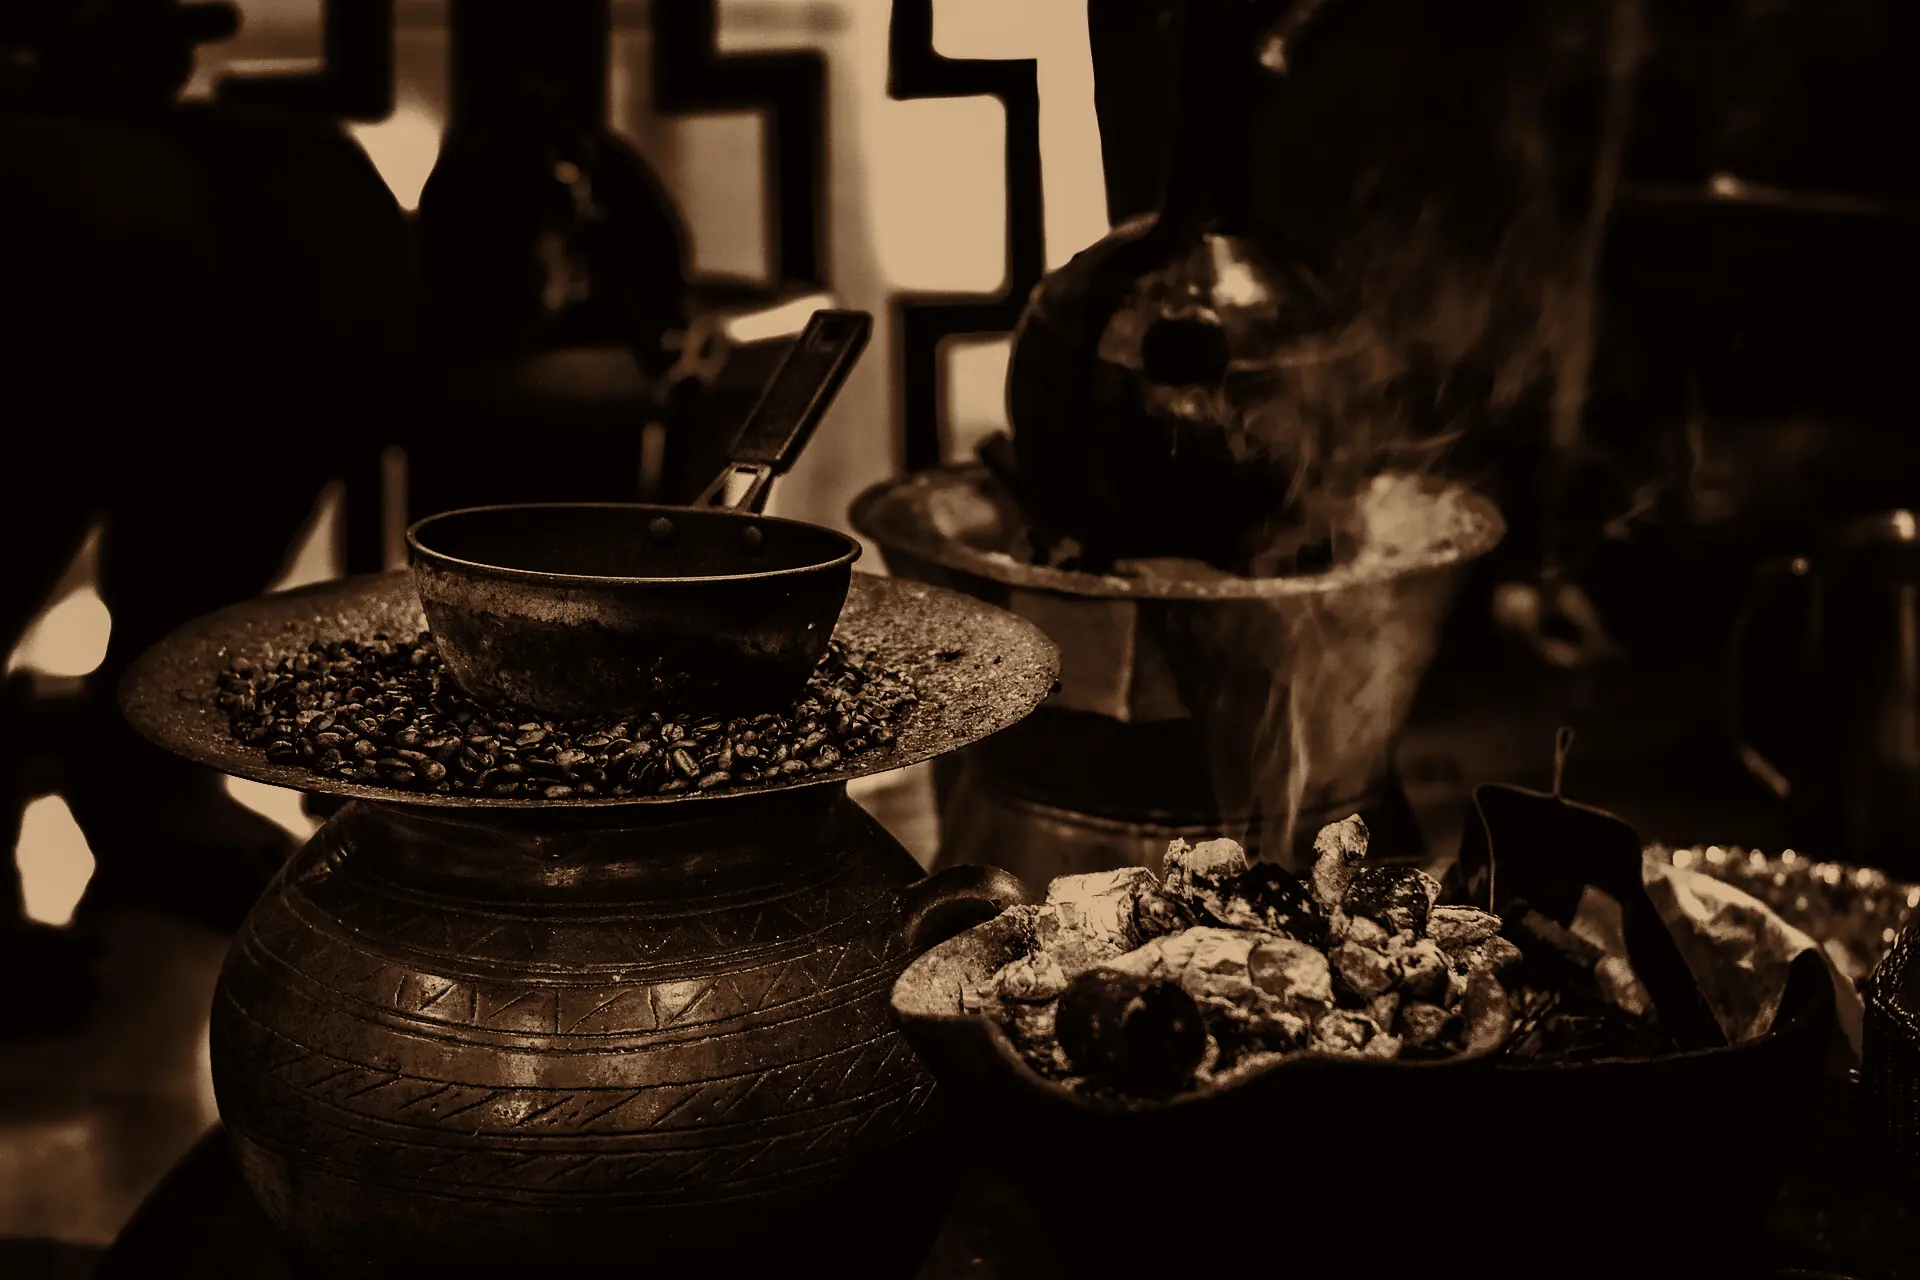
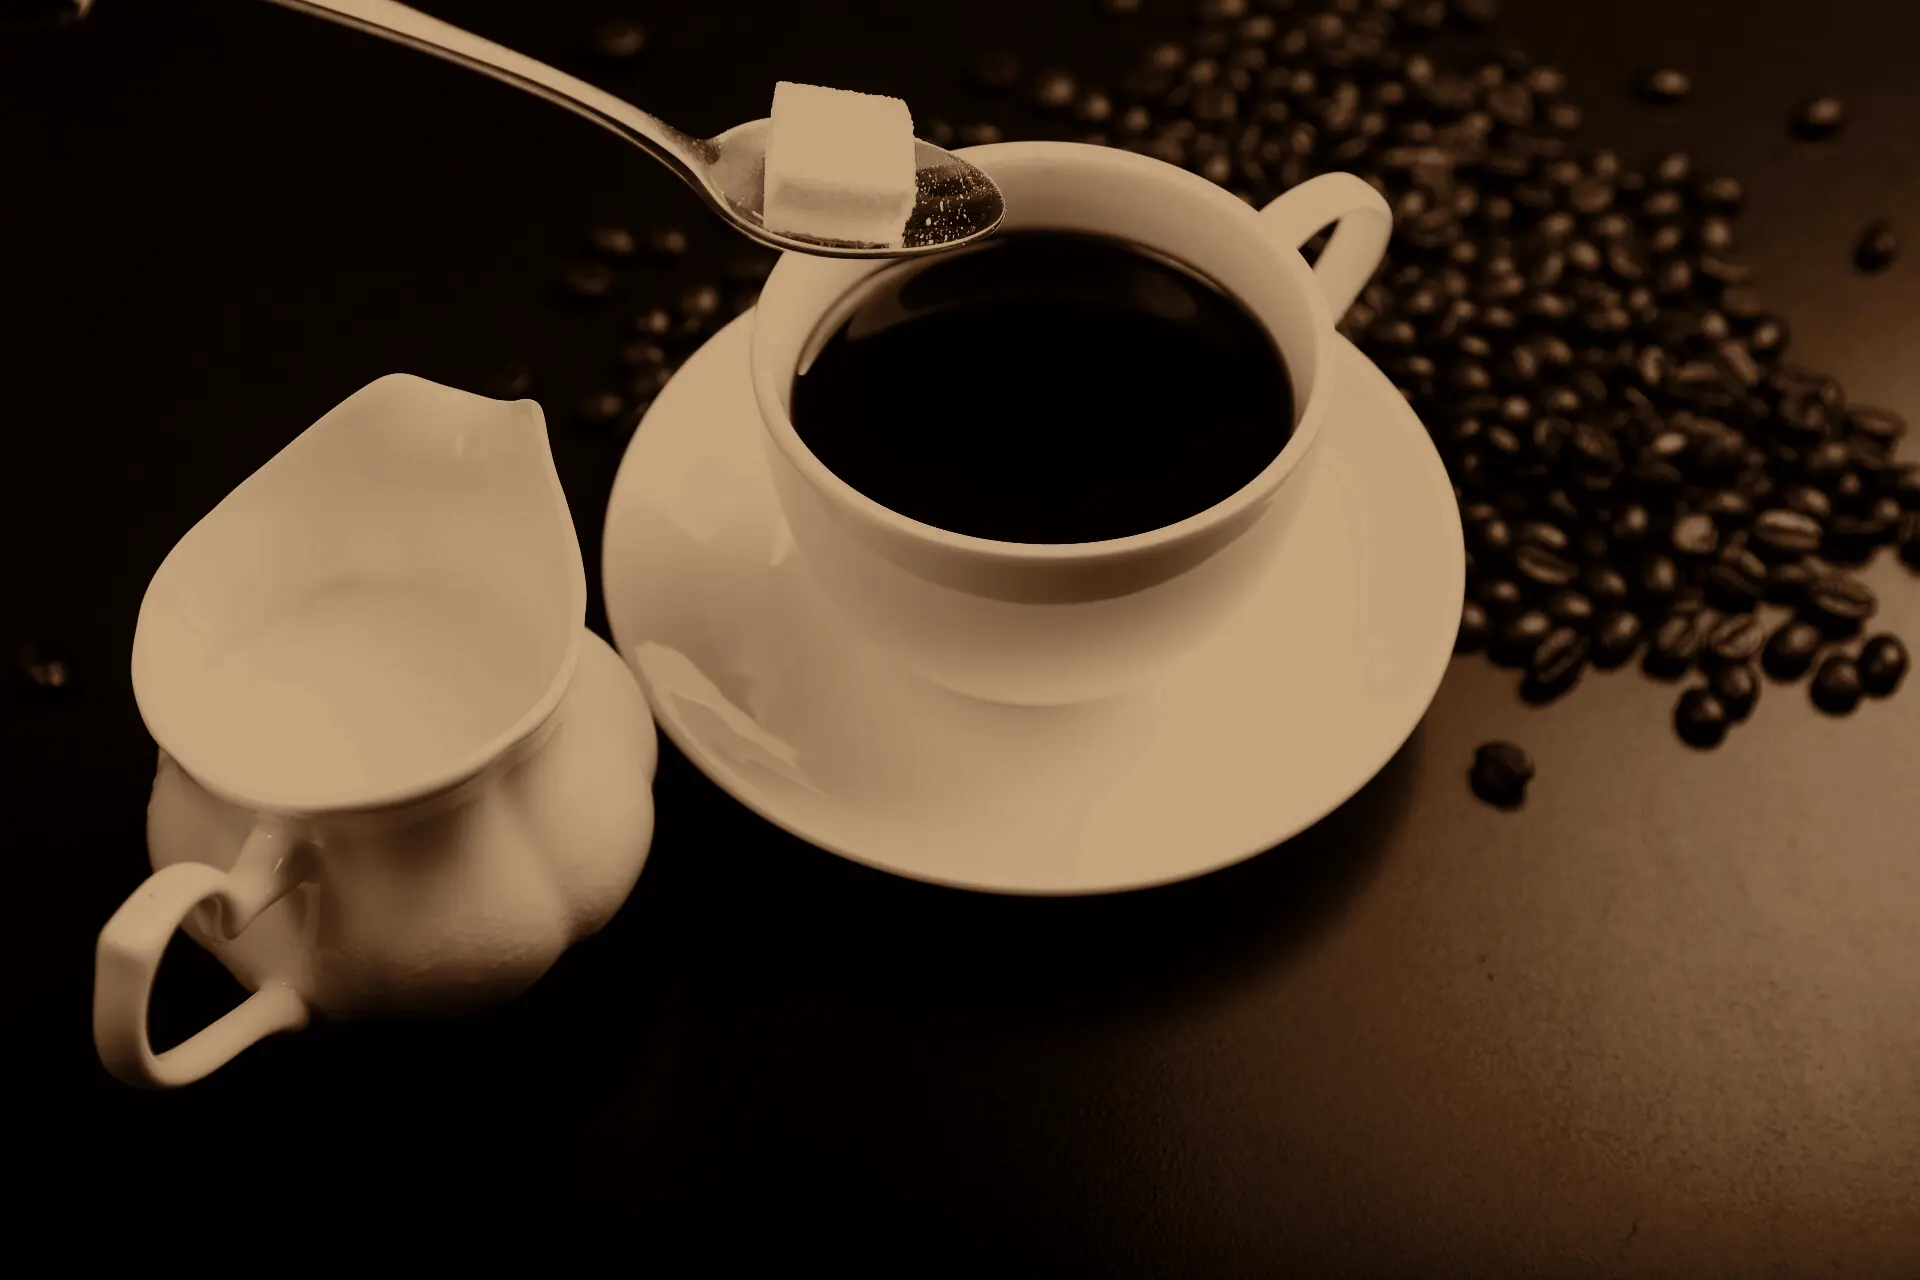
Hero: clear coffee cup photo with dark sepia grade

diff --git a/js/credits.js b/js/credits.js
@@ -1,1 +1,1 @@
-window.RR_CREDITS={"hero": {"title": "Coffee ceremony of Ethiopia and Eritrea 3", "artist": "ProtoplasmaKid", "license": "CC BY-SA 4.0", "page": "https://commons.wikimedia.org/wiki/File:Coffee_ceremony_of_Ethiopia_and_Eritrea_3.jpg"}, "ceremony": {"title": "Coffee ceremony of Ethiopia and Eritrea 1", "artist": "ProtoplasmaKid", "license": "CC BY-SA 4.0", "page": "https://commons.wikimedia.org/wiki/File:Coffee_ceremony_of_Ethiopia_and_Eritrea_1.jpg"}, "colombia": {"title": "Coffee Beans macro 5", "artist": "Daniel Schwen", "license": "CC BY 3.0", "page": "https://commons.wikimedia.org/wiki/File:Coffee_Beans_macro_5.jpg"}, "cherries": {"title": "Coffee-cherries-green-coffee-tarrazu-costa-rica", "artist": "Tarrazu at en.wikipedia", "license": "Public domain", "page": "https://commons.wikimedia.org/wiki/File:Coffee-cherries-green-coffee-tarrazu-costa-rica.jpg"}, "vietnam": {"title": "Ca Phe Sua Da", "artist": "Clarin", "license": "CC BY 2.5", "page": "https://commons.wikimedia.org/wiki/File:Ca_Phe_Sua_Da.jpg"}, "filter": {"title": "South Indian Filter Kaapi aka Coffee 04", "artist": "Nizil Shah", "license": "CC BY-SA 4.0", "page": "https://commons.wikimedia.org/wiki/File:South_Indian_Filter_Kaapi_aka_Coffee_04.jpg"}, "kenya": {"title": "Starr-140917-1898-Coffea arabica-steaming hot coffee in cabin-Holua Hilton HNP-Maui (24950780600)", "artist": "Forest and Kim Starr", "license": "CC BY 3.0 us", "page": "https://commons.wikimedia.org/wiki/File:Starr-140917-1898-Coffea_arabica-steaming_hot_coffee_in_cabin-Holua_Hilton_HNP-Maui_(24950780600).jpg"}, "origin": {"title": "Drying coffee beans in guide's hands at Fairview Estate, Kiambu, KE", "artist": "Daniel Case", "license": "CC BY-SA 4.0", "page": "https://commons.wikimedia.org/wiki/File:Drying_coffee_beans_in_guide%27s_hands_at_Fairview_Estate,_Kiambu,_KE.jpg"}, "drum": {"title": "CaffÃ¨ roasting", "artist": "MarcoMotti123", "license": "CC BY-SA 4.0", "page": "https://commons.wikimedia.org/wiki/File:Caff%C3%A8_roasting.jpg"}, "brew": {"title": "Black coffee cup (Unsplash)", "artist": "Ross Parmly rparmly", "license": "CC0", "page": "https://commons.wikimedia.org/wiki/File:Black_coffee_cup_(Unsplash).jpg"}, "sec-hot": {"title": "Starr-140917-1898-Coffea arabica-steaming hot coffee in cabin-Holua Hilton HNP-Maui (24950780600)", "artist": "Forest and Kim Starr", "license": "CC BY 3.0 us", "page": "https://commons.wikimedia.org/wiki/File:Starr-140917-1898-Coffea_arabica-steaming_hot_coffee_in_cabin-Holua_Hilton_HNP-Maui_(24950780600).jpg"}, "sec-cold": {"title": "Iced Coffee in Glass - Sunshine Coffee - Laramie Cafe (53838344552)", "artist": "Tony Webster", "license": "CC BY 2.0", "page": "https://commons.wikimedia.org/wiki/File:Iced_Coffee_in_Glass_-_Sunshine_Coffee_-_Laramie_Cafe_(53838344552).jpg"}, "sec-snacks": {"title": "Banana bread slices", "artist": "Shisma", "license": "CC BY 4.0", "page": "https://commons.wikimedia.org/wiki/File:Banana_bread_slices.jpg"}, "sec-pairs": {"title": "All butter croissant and latte - Blend Coffee Co. 2026-01-02", "artist": "Andy Li", "license": "CC0", "page": "https://commons.wikimedia.org/wiki/File:All_butter_croissant_and_latte_-_Blend_Coffee_Co._2026-01-02.jpg"}};
+window.RR_CREDITS={"hero": {"title": "Coffee-563797", "artist": "shixugang", "license": "CC0", "page": "https://commons.wikimedia.org/wiki/File:Coffee-563797.jpg"}, "ceremony": {"title": "Coffee ceremony of Ethiopia and Eritrea 1", "artist": "ProtoplasmaKid", "license": "CC BY-SA 4.0", "page": "https://commons.wikimedia.org/wiki/File:Coffee_ceremony_of_Ethiopia_and_Eritrea_1.jpg"}, "colombia": {"title": "Coffee Beans macro 5", "artist": "Daniel Schwen", "license": "CC BY 3.0", "page": "https://commons.wikimedia.org/wiki/File:Coffee_Beans_macro_5.jpg"}, "cherries": {"title": "Coffee-cherries-green-coffee-tarrazu-costa-rica", "artist": "Tarrazu at en.wikipedia", "license": "Public domain", "page": "https://commons.wikimedia.org/wiki/File:Coffee-cherries-green-coffee-tarrazu-costa-rica.jpg"}, "vietnam": {"title": "Ca Phe Sua Da", "artist": "Clarin", "license": "CC BY 2.5", "page": "https://commons.wikimedia.org/wiki/File:Ca_Phe_Sua_Da.jpg"}, "filter": {"title": "South Indian Filter Kaapi aka Coffee 04", "artist": "Nizil Shah", "license": "CC BY-SA 4.0", "page": "https://commons.wikimedia.org/wiki/File:South_Indian_Filter_Kaapi_aka_Coffee_04.jpg"}, "kenya": {"title": "Starr-140917-1898-Coffea arabica-steaming hot coffee in cabin-Holua Hilton HNP-Maui (24950780600)", "artist": "Forest and Kim Starr", "license": "CC BY 3.0 us", "page": "https://commons.wikimedia.org/wiki/File:Starr-140917-1898-Coffea_arabica-steaming_hot_coffee_in_cabin-Holua_Hilton_HNP-Maui_(24950780600).jpg"}, "origin": {"title": "Drying coffee beans in guide's hands at Fairview Estate, Kiambu, KE", "artist": "Daniel Case", "license": "CC BY-SA 4.0", "page": "https://commons.wikimedia.org/wiki/File:Drying_coffee_beans_in_guide%27s_hands_at_Fairview_Estate,_Kiambu,_KE.jpg"}, "drum": {"title": "CaffÃ¨ roasting", "artist": "MarcoMotti123", "license": "CC BY-SA 4.0", "page": "https://commons.wikimedia.org/wiki/File:Caff%C3%A8_roasting.jpg"}, "brew": {"title": "Black coffee cup (Unsplash)", "artist": "Ross Parmly rparmly", "license": "CC0", "page": "https://commons.wikimedia.org/wiki/File:Black_coffee_cup_(Unsplash).jpg"}, "sec-hot": {"title": "Starr-140917-1898-Coffea arabica-steaming hot coffee in cabin-Holua Hilton HNP-Maui (24950780600)", "artist": "Forest and Kim Starr", "license": "CC BY 3.0 us", "page": "https://commons.wikimedia.org/wiki/File:Starr-140917-1898-Coffea_arabica-steaming_hot_coffee_in_cabin-Holua_Hilton_HNP-Maui_(24950780600).jpg"}, "sec-cold": {"title": "Iced Coffee in Glass - Sunshine Coffee - Laramie Cafe (53838344552)", "artist": "Tony Webster", "license": "CC BY 2.0", "page": "https://commons.wikimedia.org/wiki/File:Iced_Coffee_in_Glass_-_Sunshine_Coffee_-_Laramie_Cafe_(53838344552).jpg"}, "sec-snacks": {"title": "Banana bread slices", "artist": "Shisma", "license": "CC BY 4.0", "page": "https://commons.wikimedia.org/wiki/File:Banana_bread_slices.jpg"}, "sec-pairs": {"title": "All butter croissant and latte - Blend Coffee Co. 2026-01-02", "artist": "Andy Li", "license": "CC0", "page": "https://commons.wikimedia.org/wiki/File:All_butter_croissant_and_latte_-_Blend_Coffee_Co._2026-01-02.jpg"}};

diff --git a/css/style.css b/css/style.css
@@ -81,8 +81,8 @@ main,footer{position:relative;z-index:2}
 
 /* hero */
 .hero{min-height:100svh;display:flex;align-items:center;padding:7rem clamp(1.2rem,6vw,6rem) 4rem;overflow:hidden}
-.hero-bg{position:absolute;inset:-4%;background:url(../images/hero.webp) center/cover;filter:saturate(.9);will-change:transform}
-.hero-shade{position:absolute;inset:0;background:linear-gradient(90deg,rgba(18,13,10,.94) 5%,rgba(18,13,10,.6) 50%,rgba(18,13,10,.35)),linear-gradient(0deg,var(--bg),transparent 35%)}
+.hero-bg{position:absolute;inset:-4%;background:url(../images/hero.webp) 70% center/cover;filter:saturate(.9);will-change:transform}
+.hero-shade{position:absolute;inset:0;background:linear-gradient(90deg,rgba(18,13,10,.96) 8%,rgba(18,13,10,.78) 45%,rgba(18,13,10,.45)),linear-gradient(0deg,var(--bg),transparent 35%)}
 .hero-inner{position:relative;max-width:900px;z-index:2}
 .hero-inner .h-big{display:flex;flex-wrap:wrap;align-items:baseline;gap:0 .15em;overflow:hidden;padding-bottom:.08em}
 .ln{display:inline-block;overflow:hidden}
